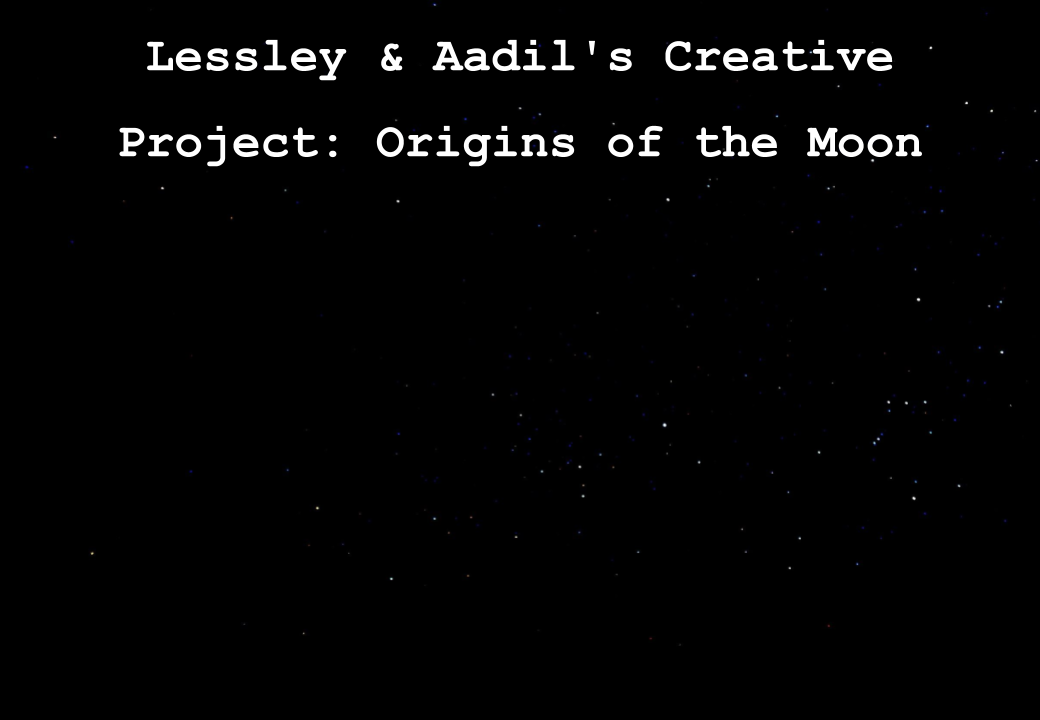
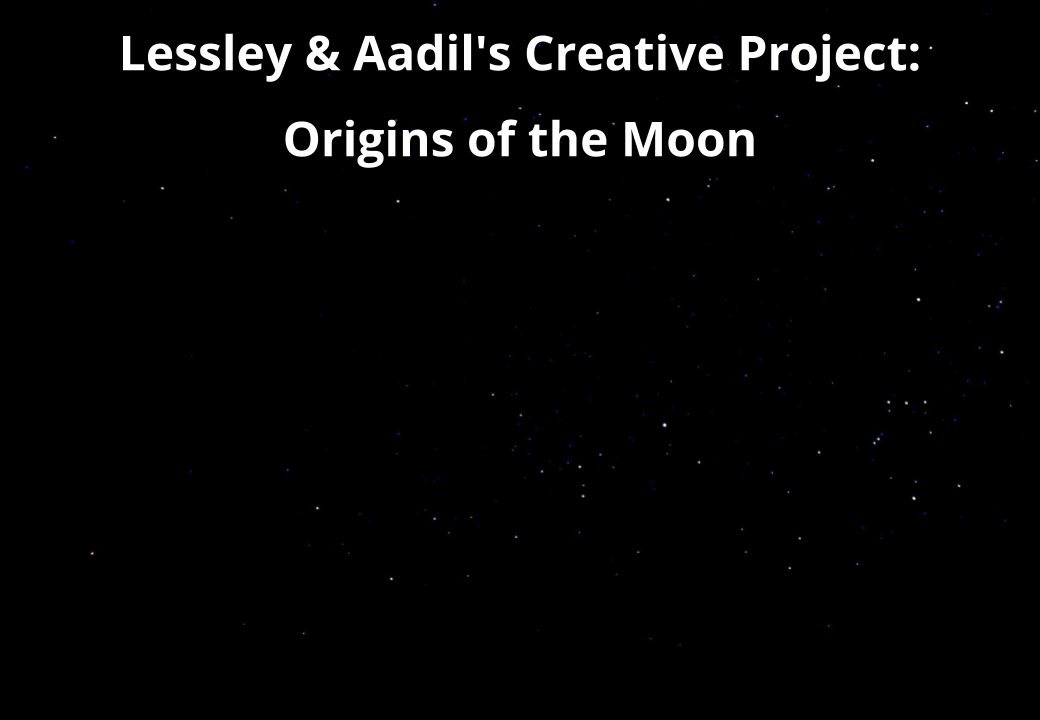
Fixed pygame font bug

Changed region(s): [[0.0923, 0.0306, 0.8923, 0.1222], [0.0923, 0.1528, 0.8923, 0.2444]]

diff --git a/phases.py b/phases.py
@@ -1,7 +1,12 @@
 import sys
+import os
 import pygame
 import math
-from menu import GameState
+from menu import GameState,resource_path
+file_path = os.path.dirname(__file__)
+
+if getattr(sys, 'assets', False):
+    os.chdir(sys._MEIPASS)
 
 # constants
 size = width, height = 1040, 720 # pixels
@@ -26,26 +31,26 @@ def earth_moon(screen):
     ### LOAD SURFACES ###
 
     # background surface
-    background = pygame.image.load("./assets/earth_moon/space.jpg")
+    background = pygame.image.load(resource_path("assets/earth_moon/space.jpg"))
     background = pygame.transform.scale(background, size)
     background = background.convert()
 
     # earth surface
-    earth = pygame.image.load("./assets/earth_moon/earth_from_above_shadow.png")
+    earth = pygame.image.load(resource_path("assets/earth_moon/earth_from_above_shadow.png"))
     earth = pygame.transform.scale(earth, (int(earth_diameter*km_to_pixel), int(earth_diameter*km_to_pixel)))
     earth = earth.convert()
     earth_rect = earth.get_rect()
     earth_rect.centerx, earth_rect.centery = width/2, height/2
 
     # tiny moon surface
-    moon = pygame.image.load("./assets/earth_moon/moon_from_above.png")
+    moon = pygame.image.load(resource_path("assets/earth_moon/moon_from_above.png"))
     moon = pygame.transform.scale(moon, (int(moon_diameter*km_to_pixel), int(moon_diameter*km_to_pixel)))
     moon = moon.convert()
     moon_rect = moon.get_rect()
     moon_rect.centerx, moon_rect.centery = earth_rect.centerx, earth_rect.centery-int(lunar_distance*km_to_pixel)
 
     # arrow (pointing to tiny moon) surface
-    arrow = pygame.image.load("./assets/earth_moon/arrow.png")
+    arrow = pygame.image.load(resource_path("assets/earth_moon/arrow.png"))
     arrow = pygame.transform.scale(arrow, (30, 10))
     arrow_rect = arrow.get_rect()
     arrow_rect.centerx, arrow_rect.centery = arrow_rect.centerx, arrow_rect.centery-arrow.get_height()/2
@@ -55,7 +60,7 @@ def earth_moon(screen):
     zoom_border = pygame.Rect(arrow_rect.centerx + arrow_rect.width, arrow_rect.centery - zoom_size/2, zoom_size, zoom_size)
 
     # zoomed moon surface
-    moon_zoomed = pygame.image.load("./assets/earth_moon/moon_from_above_shadow.png")
+    moon_zoomed = pygame.image.load(resource_path("assets/earth_moon/moon_from_above_shadow.png"))
     moon_zoomed = pygame.transform.scale(moon_zoomed, (int(zoom_size*0.8), int(zoom_size*0.8)))
     moon_zoomed.convert()
     moon_zoomed_rect = moon_zoomed.get_rect()
@@ -65,7 +70,7 @@ def earth_moon(screen):
     phase_border = pygame.Rect(earth_rect.centerx + 5*earth_rect.width, earth_rect.centery - zoom_size/2, zoom_size, zoom_size)
     phases = []
     for i in range(1, 8+1):
-        phase = pygame.image.load("./assets/earth_moon/phase_{}.png".format(i))
+        phase = pygame.image.load(resource_path("assets/earth_moon/phase_{}.png").format(i))
         phase = pygame.transform.scale(phase, (int(zoom_size*0.8),int(zoom_size*0.8)))
         phase.convert()
         phase_rect = phase.get_rect()
@@ -74,27 +79,27 @@ def earth_moon(screen):
     phase_i = -1
 
     # zig-zag (separating sun from earth-moon system) surface
-    zig_zag = pygame.image.load("./assets/earth_moon/zig-zag.png")
+    zig_zag = pygame.image.load(resource_path("assets/earth_moon/zig-zag.png"))
     zig_zag = pygame.transform.scale(zig_zag, (50, height))
     zig_zag.convert()
     zig_zag_rect = zig_zag.get_rect()
     zig_zag_rect.center = (150, height/2)
 
     # sun surface
-    sun = pygame.image.load("./assets/earth_moon/sun.png")
+    sun = pygame.image.load(resource_path("assets/earth_moon/sun.png"))
     sun = pygame.transform.scale(sun, (int(sun_diameter*km_to_pixel), int(sun_diameter*km_to_pixel)))
     sun.convert()
     sun_rect = sun.get_rect()
     sun_rect.center = (-450, height/2)
 
     # text surfaces
-    font = pygame.font.SysFont(None, 24)
+    font = pygame.font.SysFont('Sans', 18)
     title = font.render('Lunar Phases:', True, WHITE)
     phase_title = font.render('Phase seen on Earth:', True, WHITE)
     zoom_title = font.render('Lunar surface:', True, WHITE)
     sun_title = font.render('The Sun:', True, WHITE)
     story = []
-    with open('./assets/earth_moon/story.txt') as file:
+    with open(resource_path('assets/earth_moon/story.txt')) as file:
         story = [font.render(line.rstrip('\n'), True, WHITE) for line in file]
     story_i = 0
     progress = font.render('{} of {}'.format(story_i+1, len(story)), True, WHITE)

diff --git a/theia.py b/theia.py
@@ -1,10 +1,11 @@
 import os, sys
 import pygame
-from menu import GameState
-
+from menu import GameState,resource_path
 
 # get location of file
 file_path = os.path.dirname(__file__)
+if getattr(sys, 'assets', False):
+    os.chdir(sys._MEIPASS)
 
 # constants
 size = width, height = 1040, 720 # pixels
@@ -32,49 +33,49 @@ def theia_moon(screen):
     ### LOAD SURFACES ###
 
     # background surfaces
-    space = pygame.image.load(os.path.join(file_path, "assets/space.jpg"))
+    space = pygame.image.load(resource_path("assets/space.jpg"))
     space = pygame.transform.scale(space, size)
     space = space.convert()
     space_rect = space.get_rect()
 
     # background surfaces
-    orbit = pygame.image.load(os.path.join(file_path, "assets/gih/orbitEarth.jpg"))
+    orbit = pygame.image.load(resource_path("assets/gih/orbitEarth.jpg"))
     orbit = pygame.transform.scale(orbit, size)
     orbit = orbit.convert()
     orbit_rect = orbit.get_rect()
 
     # background surfaces
-    apollo = pygame.image.load(os.path.join(file_path, "assets/gih/apollo.jpg"))
+    apollo = pygame.image.load(resource_path("assets/gih/apollo.jpg"))
     apollo = pygame.transform.scale(apollo, size)
     apollo = apollo.convert()
     apollo_rect = apollo.get_rect()
 
     # background surfaces
-    moon = pygame.image.load(os.path.join(file_path, "assets/gih/moon.png"))
+    moon = pygame.image.load(resource_path("assets/gih/moon.png"))
     moon = pygame.transform.scale(moon, size)
     moon = moon.convert()
     moon_rect = moon.get_rect()
 
     #Proto Earth 
-    proto_earth = pygame.image.load(os.path.join(file_path, "assets/gih/protoEarth.jpg"))
+    proto_earth = pygame.image.load(resource_path("assets/gih/protoEarth.jpg"))
     proto_earth = pygame.transform.scale(proto_earth, size)
     proto_earth = proto_earth.convert()
     proto_earth_rect = proto_earth.get_rect()
 
     #Theia First Impact 
-    theia_impact = pygame.image.load(os.path.join(file_path, "assets/gih/Theia_Impact.png"))
+    theia_impact = pygame.image.load(resource_path("assets/gih/Theia_Impact.png"))
     theia_impact = pygame.transform.scale(theia_impact, size)
     theia_impact = theia_impact.convert()
     theia_impact_rect = theia_impact.get_rect()
 
     #Theia Impact Explostion
-    theia_2 = pygame.image.load(os.path.join(file_path, "assets/gih/Thea_impact3.jpg"))
+    theia_2 = pygame.image.load(resource_path("assets/gih/Thea_impact3.jpg"))
     theia_2= pygame.transform.scale(theia_2, size)
     theia_2 = theia_2.convert()
     theia_2_rect = theia_2.get_rect()
 
     #Theia Impact Explostion
-    theia_3 = pygame.image.load(os.path.join(file_path, "assets/gih/ring_protoearth.jpg"))
+    theia_3 = pygame.image.load(resource_path("assets/gih/ring_protoearth.jpg"))
     theia_3= pygame.transform.scale(theia_3, size)
     theia_3 = theia_3.convert()
     theia_3_rect = theia_3.get_rect()
@@ -83,10 +84,10 @@ def theia_moon(screen):
     order= {'Apollo':[apollo, apollo_rect],'Orbit':[orbit, orbit_rect],'Moon':[moon, moon_rect], 'Space': [space, space_rect], 'Proto-Earth':[proto_earth, proto_earth_rect], 'Theia Impact':[theia_impact, theia_impact_rect],'Theia Graze':[theia_2, theia_2_rect],'Our Moon':[theia_3, theia_3_rect]}
 
     # text surfaces
-    font = pygame.font.SysFont(None, 24)
+    font = pygame.font.SysFont('Sans', 18)
     title = font.render('Press the LEFT arrow to start. Have fun!,   ESC: exit,   LEFT/RIGHT: for narration', True, WHITE)
     story, topic = [], None
-    with open(os.path.join(file_path, 'assets/gih/story.txt')) as file:
+    with open(resource_path('assets/gih/story.txt')) as file:
         story = [font.render(line.rstrip('\n'), True, WHITE) for line in file]
     story_i= 0
     progress = font.render('{} of {}'.format(story_i+1, len(story)), True, WHITE, BLACK)

diff --git a/surface.py b/surface.py
@@ -1,6 +1,11 @@
 import sys
+import os
 import pygame
-from menu import GameState
+from menu import GameState,resource_path
+# get location of file
+file_path = os.path.dirname(__file__)
+if getattr(sys, 'assets', False):
+    os.chdir(sys._MEIPASS)
 
 # constants
 size = width, height = 1040, 720 # pixels
@@ -13,55 +18,54 @@ GREEN = (0, 255, 0)
 BLUE = (0, 0, 255)
 ORANGE = (255, 165, 0)
 button_radius = 15
-
 def age_moon(screen):
     ### LOAD SURFACES ###
 
     # background surfaces
-    space = pygame.image.load("./assets/moon_age/space.jpg")
+    space = pygame.image.load(resource_path("assets/moon_age/space.jpg"))
     space = pygame.transform.scale(space, size)
     space = space.convert()
     space_rect = space.get_rect()
 
-    crater_counting = pygame.image.load("./assets/moon_age/crater_counting.png")
+    crater_counting = pygame.image.load(resource_path("assets/moon_age/crater_counting.png"))
     crater_counting = pygame.transform.scale(crater_counting, size)
     crater_counting = crater_counting.convert()
     crater_counting_rect = crater_counting.get_rect()
 
-    highlands = pygame.image.load("./assets/moon_age/highlands.png")
+    highlands = pygame.image.load(resource_path("assets/moon_age/highlands.png"))
     highlands = pygame.transform.scale(highlands, size)
     highlands = highlands.convert()
     highlands_rect = highlands.get_rect()
 
-    maria = pygame.image.load("./assets/moon_age/maria.png")
+    maria = pygame.image.load(resource_path("assets/moon_age/maria.png"))
     maria = pygame.transform.scale(maria, size)
     maria = maria.convert()
     maria_rect = maria.get_rect()
 
-    poles = pygame.image.load("./assets/moon_age/poles.png")
+    poles = pygame.image.load(resource_path("assets/moon_age/poles.png"))
     poles = pygame.transform.scale(poles, size)
     poles = poles.convert()
     poles_rect = poles.get_rect()
 
     # near-side of moon surface
-    near_side = pygame.image.load("./assets/moon_age/moon_near_side.png")
+    near_side = pygame.image.load(resource_path("assets/moon_age/moon_near_side.png"))
     near_side = pygame.transform.scale(near_side, (int(moon_diameter*km_to_pixel), int(moon_diameter*km_to_pixel)))
     near_side = near_side.convert()
     near_side_rect = near_side.get_rect()
     near_side_rect.centerx, near_side_rect.centery = width//2, height//2
 
     # far-side of moon surface
-    far_side = pygame.image.load("./assets/moon_age/moon_far_side.png")
+    far_side = pygame.image.load(resource_path("assets/moon_age/moon_far_side.png"))
     far_side = pygame.transform.scale(far_side, (int(moon_diameter*km_to_pixel), int(moon_diameter*km_to_pixel)))
     far_side = far_side.convert()
     far_side_rect = far_side.get_rect()
     far_side_rect.centerx, far_side_rect.centery = width//2, height//2
 
     # text surfaces
-    font = pygame.font.SysFont(None, 24)
+    font = pygame.font.SysFont('Sans', 18)
     title = font.render('Lunar Surface:', True, WHITE)
     story, stats, topic = {}, {}, None
-    with open('./assets/moon_age/story.txt') as file:
+    with open(resource_path('assets/moon_age/story.txt')) as file:
         for line in file:
             if line.startswith('*'):
                 topic = line[1:].rstrip('\n')

diff --git a/menu.py b/menu.py
@@ -1,10 +1,20 @@
-import pygame, sys
+import pygame
+import sys
+import os
 import random
 import pygame.freetype
 from pygame.sprite import Sprite
 from pygame.rect import Rect
 from enum import Enum
 from pygame.sprite import RenderUpdates
+
+def resource_path(relative_path):
+    """ Get absolute path to resource, works for dev and for PyInstaller """
+    base_path = getattr(sys, '_MEIPASS', os.path.dirname(os.path.abspath(__file__)))
+    return os.path.join(base_path, relative_path)
+
+if getattr(sys, 'assets', False):
+    os.chdir(sys._MEIPASS)
 
 BLACK = (0, 0, 0)
 WHITE = (255, 255, 255)
@@ -27,7 +37,7 @@ SCREEN_HEIGHT = 720
 
 def create_surface_with_text(text, font_size, text_rgb, bg_rgb):
     """ Returns surface with text written on """
-    font = pygame.freetype.SysFont("Courier", font_size, bold=True)
+    font = pygame.freetype.SysFont("Sans", font_size, bold=True)
     surface, _ = font.render(text=text, fgcolor=text_rgb, bgcolor=bg_rgb)
     return surface.convert_alpha()
 
@@ -156,7 +166,7 @@ def play_level(screen):
 #buttons sprite renderer.
 def game_loop(screen, buttons):
 
-    bg_title = pygame.image.load("./assets/bg_title.png")
+    bg_title = pygame.image.load(resource_path("./assets/bg_title.png"))
     bg_title = pygame.transform.scale(bg_title, (SCREEN_WIDTH, SCREEN_HEIGHT))
     bg_title = bg_title.convert()
 

diff --git a/main.py b/main.py
@@ -4,19 +4,24 @@ from phases import earth_moon
 from surface import age_moon
 from theia import theia_moon
 
+if getattr(sys, 'assets', False):
+    os.chdir(sys._MEIPASS)
+
 # Define constants for the screen width and height
 SCREEN_WIDTH = 1040
 SCREEN_HEIGHT = 720
 
+
 def main():
     pygame.init()
-    pygame.display.set_caption("Origins of the Moon")
+    pygame.font.init()
 
+
+    pygame.display.set_caption("Origins of the Moon")
     screen = pygame.display.set_mode((SCREEN_WIDTH , SCREEN_HEIGHT))
     game_state = GameState.TITLE
 
     current_level = 0
-
     while True:
         if game_state == GameState.TITLE:
             game_state = title_screen(screen)

diff --git a/README.md b/README.md
@@ -10,14 +10,11 @@
 - Walk through of the history of our moon
 
 ## How to play our game: 
-+ Download zip file from this repository
-+ Open your terminal and run the following comands: 
-> $ python3 -m pip install -U pygame --user
-
-> $ python3 main.py
++ Download the zip file names `Download_Game.zip` from this repository:
++ Open the zip and click on the fail named `main` twice and the game should open :)
++ The file does take a while to load...Please be patient
 
 ## User Stories
-
 The following functionality is **completed**:
 + [X] Start Screen
 + [X] Giant Impact Hypothesis
@@ -26,13 +23,14 @@ The following functionality is **completed**:
 + [X] Phases of the moon
 + [X] Age of certain Surface of the moon
 
-## Video Walkthrough
+## Walkthrough
+<img src=https://imgur.com/F60JOR5.gif/>
+
 [Imgur](https://imgur.com/F60JOR5)
 
+<img src=https://imgur.com/QEtMzlV.gif/>
+
 [Imgur](https://imgur.com/QEtMzlV)
-
-
- <!-- <img src='https://imgur.com/QEtMzlV' width='' alt='Origin of the Moon pt2' />  -->
 
 ## Credits
 
@@ -60,6 +58,10 @@ List an 3rd party libraries, icons, graphics, or other assets we used in our gam
   - https://ya-webdesign.com/explore/red-right-arrow-png/
 - Zig-zag image (zig-zag.png)
   - https://pngimage.net/zigzag-border-png/
+- Giant Impact Hypothesis (all images in directory /assests/gih) 
+  - https://www.nationalgeographic.com/news/2014/6/140605-earth-moon-theia-evidence-space-science/
+  - futura-sciences.com/planete/actualites/terre-or-terre-viendrait-chute-160-geocroiseurs-16938/
+  - 
 
 ## License
 
